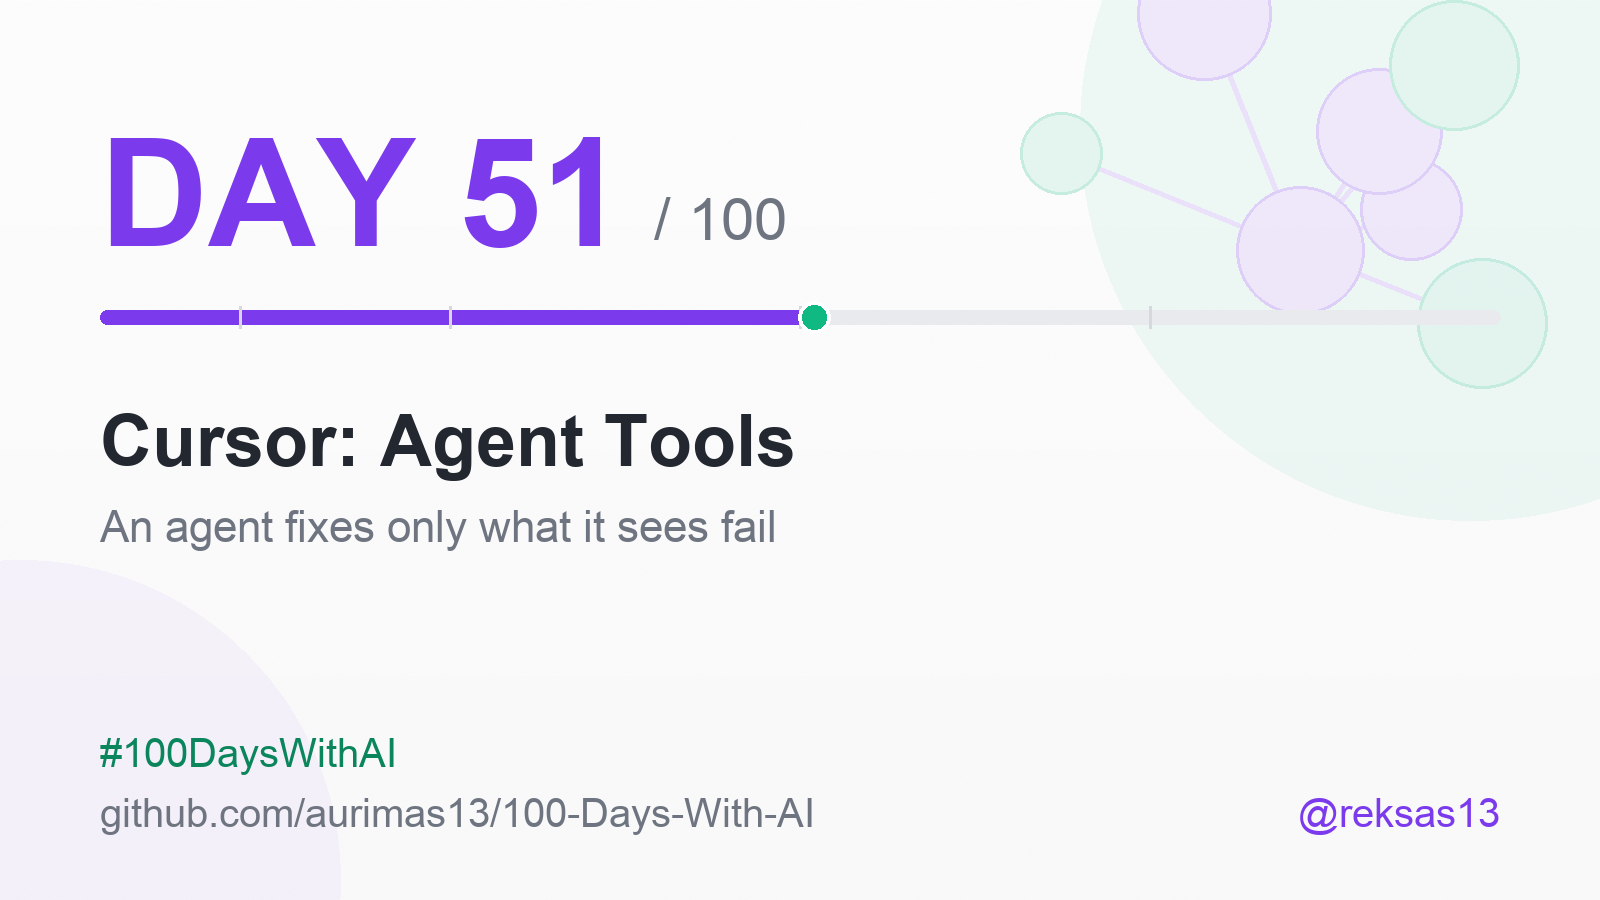
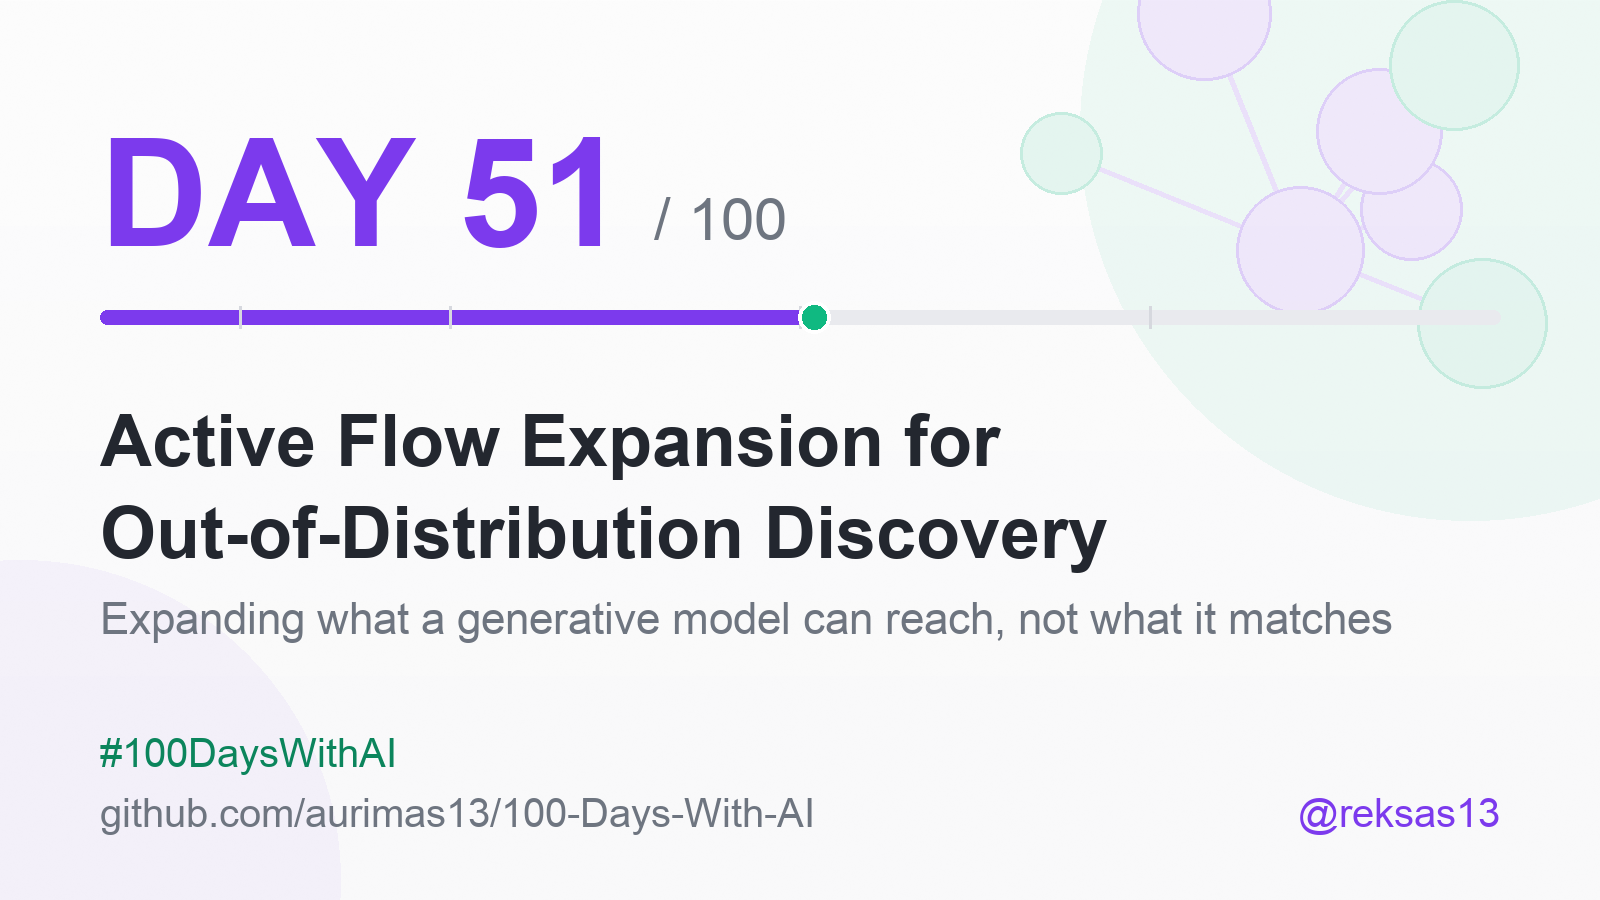
Day 51: Active Flow Expansion for Out-of-Distribution Discovery (replaces the fallback entry in e122b90)

Changed region(s): [[0.0625, 0.56, 0.875, 0.7156], [0.0625, 0.4356, 0.625, 0.5289]]

diff --git a/README.md b/README.md
@@ -146,7 +146,7 @@ for the shape of the progress table.
 | 48 | 2026-08-28 | "AI Systems Out-Persuade Expert Humans" - Kobi Hackenburg et al. | Advanced | Four preregistered experiments covering 18,978 conversations with 6,923 people, pitting frontier AI against five classes of human persuader - random laypeople, tournament-selected laypeople, professional canvassers paid £140 an hour, 56 elite competitive debaters including four world champions and eleven continental champions, and those same debaters after coaching against the AI that had beaten them - and finding AI ahead of every class, by 8.2 points over random laypeople and 4.6 over elite debaters, with coaching adding a statistically insignificant 1.0 point despite the debaters writing 19% more words and making 54% more fact-checkable claims; the decisive result is the constraint arm, where capping the AI to human message length and human reply speed collapsed its advantage over the strongest human group to 0.0 points, identifying information throughput rather than rhetorical skill as the source of the edge, and a fourth study found the advantage carried into real-money charitable giving | [arxiv.org](https://arxiv.org/abs/2606.16475) |
 | 49 | 2026-08-29 | "Training AI Scientists to Replicate Research" - Damon Falck et al. (Inherent Laboratories) | Advanced | A training setup for agents that reproduce published results, built on Replica, an automatically generated space of 310 figure-replication tasks drawn from 100 machine learning and AI-for-science papers spanning 1990 to 2026, where each task hands the agent a paper with one results figure irreversibly redacted, 60 minutes and a one-seventh MIG slice of an H200 GPU, and asks for the missing plot; because replication has no verifiable reward, the authors auto-generate a per-task rubric with the original figure hidden from the rubric writer so it grades the paper's claim rather than the plot's cosmetics, and use a coding agent with workspace access as the judge so it can re-run the code it is scoring; the resulting agent, Faraday, is Qwen3.6-27B post-trained with a turn-level credit variant of GRPO and using a frontier coding agent as a tool, and it wins on 73% of in-distribution tasks and 60% of held-out ones, with the sharpest comparison being that the same base model in the same harness with the same tool scores 0.554 on the held-out set against Faraday's 0.791 | [arxiv.org](https://arxiv.org/abs/2608.13331) |
 | 50 | 2026-08-30 | "Context Engineering for Agents" - Lance Martin | Advanced | A practitioner's map of context engineering, sorting what is usually a pile of tactics into four moves defined by where the tokens go: write context, saving it outside the window in scratchpads and memories; select context, pulling only the relevant part back in; compress context, keeping just the tokens the task needs; and isolate context, splitting it across sub-agents, sandboxes or state objects so most of it never enters a window at all; the compression half is the concrete one, with Claude Code running an "auto-compact" after 95% of the window is used, Cognition reportedly fine-tuning a model purely to summarise agent-to-agent handoffs, and trimming offered as the cheaper alternative, either by hard-coded heuristics or by a trained pruner such as Provence; the isolation half carries the honest counterweight, that many agents with their own windows beat a single agent on Anthropic's research task while using up to 15 times more tokens than chat; published June 2025 as a blog post, a synthesis of other people's systems rather than an evaluation, with LangGraph and LangChain as its worked examples | [rlancemartin.github.io](https://rlancemartin.github.io/2025/06/23/context_engineering/) |
-| 51 | 2026-08-31 | "Agent Tools" - Cursor Docs | Medium | The reference page for what Cursor's agent can actually do, and more useful for what the list implies than for the list itself: the agent is described as three parts, "Instructions", "Tools" and a "Model", and the tools are file and folder search, file reading with image formats passed to a vision model, edits that it will "Suggest edits to files and apply them automatically", web search, rule retrieval, terminal commands where it will "Execute terminal commands and monitor output", browser control to "take screenshots, test applications, and verify visual changes", image generation, and the ability to ask clarifying questions mid-task; there is no error-handling section anywhere on the page, and that absence is the finding, because the recovery loop is not a feature but a property that falls out of three ordinary ones - running a command and watching what it prints, the flat promise that "There is no limit on the number of tool calls Agent can make during a task", and automatic checkpoints taken "before making significant changes, capturing the state of all modified files" and "stored locally and separate from Git", which makes a wrong turn cheap to undo; the practical consequence is that an agent can only close the loop over failures its own tools can observe, which is why Replit's FAQ can say its agent "often detects" a crash and fixes it in real time and in the same breath tell the human to read the deployment log first and to report a bug as "When input is X, I expected Y but got Z" | [cursor.com](https://cursor.com/docs/agent/tools) |
+| 51 | 2026-08-31 | "Active Flow Expansion for Out-of-Distribution Discovery: from Theory to Molecules" - Riccardo De Santi et al. | Advanced | A method for pushing a pre-trained generative model past the data it was fitted to, resting on a reframing: judge a flow model not by how well it matches the training distribution but by its generable set, formally the region where the terminal density clears a threshold, which is the part of the design space it can actually reach under a finite sampling budget; the central observation is that this set is a tiny fraction of the valid design space, so discovery is a coverage problem rather than a fidelity one, and the paper proposes generable set expansion as a learning principle in its own right; ActFlow implements it as continued pre-training with verifier feedback, repeatedly sampling where a learned uncertainty estimate is highest while a KL term keeps proposals near the current model, querying a black-box validity checker, and fine-tuning on what returns, with an optional negative gradient on rejections, and it explores inside the velocity network's own representation at an intermediate noise level rather than in data space; the theory contributes what the authors call first-of-their-kind statistical learning guarantees for out-of-distribution flow modelling, framed as a local-to-global reachability process; the empirical claim is coverage rather than quality, with valid clusters rising from 35.89 to 144.30 on GEOM-Drugs and from 44.33 to 358.33 on therapeutic peptides, while the standard filtered self-training baseline raises validity and leaves coverage flat, moving 1.16% to 1.1% in the two-dimensional illustration; ETH Zurich, Penn, Caltech and FutureHouse, June 2026, with the authors noting that no real-world discovery has yet been demonstrated | [arxiv.org](https://arxiv.org/abs/2606.08802) |
 
 ---
 
@@ -1382,23 +1382,22 @@ source that argues the opposite.
 
 <sub>🤝 <b>AI collaboration:</b> researched, drafted and illustrated with Claude Code; reviewed, edited and approved by me before publishing - see <a href="#-ai-collaboration">AI Collaboration</a>.</sub>
 
-### Day 51 - "Agent Tools" (Cursor Docs)
+### Day 51 - "Active Flow Expansion for Out-of-Distribution Discovery" (Riccardo De Santi et al.)
 
 <img src="assets/cards/day-051.png" width="420" alt="Day 51 card">
 
-- **There is no error-handling section on the page, and that is the finding.** I went to this page looking for how a coding agent recovers from a failed command, a red test or a broken edit, and there is no such heading. No retry policy, no backoff, no description of what the agent does when a build fails. For a page that exists to enumerate capabilities, the omission is not sloppiness. The recovery loop is not one of the tools, it is what you get when three of them are put in the same room.
-- **The three ordinary tools that assemble into a loop.** First, the terminal entry does not say "run commands", it says the agent will "Execute terminal commands and monitor output" - the monitoring is half the sentence and all of the point. Second, the page states flatly that "There is no limit on the number of tool calls Agent can make during a task", so nothing structural stops it from running, reading the failure and running again. Third, checkpoints: the system "automatically creates them before making significant changes, capturing the state of all modified files", and they are "stored locally and separate from Git". Observe, iterate without a cap, and roll back cheaply. That is an error loop, described without ever using the word.
-- **An agent can only close the loop over failures its tools can observe.** This is the line I keep coming back to. A stack trace printed by a command the agent itself ran is inside the loop. A visual regression, a wrong number on a dashboard, a function that does exactly what was asked and not what was meant - none of those are, unless something puts them there. Read that way, the browser tool stops looking like a convenience and starts looking like an aperture: "Control a browser to take screenshots, test applications, and verify visual changes" is a way of turning a class of invisible failure into observable output. Vision on `.png`, `.jpg`, `.gif`, `.webp` and `.svg` is the same move for anything already on disk.
-- **Where the agent cannot see, the human is the sensor - and vendors say so openly.** Replit's FAQ makes the split unusually explicit. On one side, the agent's own loop: "If the code it wrote crashes or throws an error, the Agent often detects it and attempts to fix the issue in real time." On the other, the human's job when it does not: read the deployment or console logs first, and hand back a report shaped as "When input is X, I expected Y but got Z". That template is doing real work. It supplies the input, the expectation and the observation - the three things a failing test would have carried automatically. It is a manual reconstruction of a signal the agent could not generate for itself.
-- **The upshot for how I set up a task, which is the practical half.** If the agent fixes what it can see fail, then the highest-leverage thing I control is not the prompt, it is how much of the failure surface is wired into something that prints. A test command, a type check, a linter, a smoke script that exits non-zero: each one converts a silent defect into terminal output the loop already knows how to consume. The corollary is uncomfortable and worth saying plainly - on a task with no executable check, an agent is not iterating towards correctness at all, it is producing plausible text and I am the only sensor in the circuit.
-- **What this entry does not accept without saying so.** Three limits. First, this is vendor documentation, not an evaluation: it describes intended behaviour and reports no measurement, and "there is no limit on the number of tool calls" is a product statement about a fast-moving tool, not a guarantee I have tested. Second, Replit's "often detects" is doing quiet work in that sentence, and a vendor FAQ is the least adversarial possible account of its own failure rate. Third, the supporting error-API link I had queued for today, Windsurf's, now redirects to Devin's documentation and turns out to describe analytics query errors rather than anything an agent feeds back to itself, so it is cited here only as the reason it went unused.
+- **The generable set is the reframing, and it asks a better question than "how well does it fit?".** Definition 1 is small and does a lot of work: the tau-level generable set is the set of designs the model's terminal density assigns at least tau probability. It is deliberately not the support. As the paper notes, as tau approaches zero the generable set approaches the support, but the support includes regions of infinitesimal probability that will never be sampled in any real budget; the tau-level set is instead "the region likely to be sampled under a finite budget". That is the distinction the whole paper turns on. A model is described by what it can actually reach, not by what it could reach given infinite draws.
+- **The limitation is then stated as a volume inequality, which is what makes it uncomfortable.** The pre-trained generable set is contained in the valid design space, and its volume is very much smaller. The valid space is defined by a black-box verifier, every design the checker accepts. So a model that fits its data perfectly is still, by construction, incapable of producing most valid molecules: the abstract puts it as sampling "valid new-to-nature designs, assigned negligible probability under, and thus inaccessible to, standard models fitted to the observed data". Better fit does not touch this. Fidelity and coverage are separate axes, and pre-training only optimises the first.
+- **ActFlow chases uncertainty, not validity, and that inversion is the method.** Each round it fits an uncertainty estimate for the verifier from the labelled designs it has queried so far, then samples to maximise that uncertainty minus a KL penalty against the current model, queries the black-box verifier on what it drew, and fine-tunes the flow on the results with an optional negative gradient on the rejections. The KL weight is the exploration dial: pushed high it degenerates to ordinary sampling, pushed to zero it chases uncertainty into regions where the model is worthless. The detail I liked most is where the search happens. Exploration runs inside the velocity network's own learned representation at an intermediate noise level, empirically around 0.8 to 0.9, because that geometry is friendlier to global exploration than either the clean-data end or the pure-noise end. The model's own half-noised internal space is the map it explores by.
+- **The result that changed my mind: filtering makes a model more correct and less adventurous.** In the two-dimensional illustration ActFlow "increases both coverage, from 1.16% to 94.27%, and validity, from 76.00% to" 95.90%. The baseline that matters is Rec-F, which is the standard recipe almost everyone uses, namely continued training on your own verifier-filtered samples. It "increases validity while even decreasing coverage (1.16% to 1.1%)". It got better at being right about the ground it already stood on, and lost ground. Filtering selects for what the model can already do, which is exactly the wrong selection pressure if the goal is reach.
+- **The same shape recurs across four molecular domains, at scale.** On QM9, 88.40 valid clusters against 45.40 for Rec-F and 42.80 for Rec-NF, with a Vendi diversity of 306.08. On GEOM-Drugs, clusters rise from 35.89 to 144.30 and Vendi from 255.03 to 303.10. On therapeutic peptides, from 44.33 to 358.33 clusters and 13.45 to 58.87 Vendi, while unfiltered self-training "collapses entirely to 0.0% validity, as a single misplaced token can result in an invalid peptide". On protein sequences, 66.50 to 102.75 clusters, Vendi 12.87 to 42.14, validity 70.81% to 83.74%. The protein column repeats the trade in miniature: Rec-F reaches a higher validity of 88.12% than ActFlow's 83.74%, and "collapses in coverage and diversity" doing it. Whenever validity is the only thing measured, the filtering baseline looks like the winner.
+- **What this entry does not accept without saying so.** Four limits, and the last is a reading note. First, "valid" means a computational verifier said yes: chemical rules for molecules, a sequence parser for peptides. Not synthesis, not an assay, not a binding result. A molecule can be valid and entirely useless. Second, the authors are honest about the gap themselves, writing that "future work will need to assess whether this form of exploration yields concrete gains (i.e., discoveries) in specific real-world applications" - no discovery is claimed anywhere. Third, the guarantee is reachability-shaped: it covers what can be reached from the seed region through a bounded number of local certifiable steps, so a valid region genuinely disconnected from everything the pre-trained model knows sits outside the theorem, and "new-to-nature" has to be read within that. Fourth, read two of the numbers carefully. The paper writes of "increasing the pre-trained model coverage by 144.3% and its validity by 56.6%", but Table 1 gives 144.30 as ActFlow's cluster count, up from 35.89, and 56.6% as its absolute validity on that task. Those two are levels, not increases, and quoting them as percentage gains would overstate a result that is already strong.
 
-**Why it matters:** the phrase "error handling" invites you to look for a component, and in an agent there is no component to find. What there is instead is an observation surface. Whether a failure reaches the model is decided upstream of the model entirely, by which tools exist and what they print, and that is an engineering decision made before a single token is generated. It also reframes a complaint I have made myself. When an agent loops uselessly on a problem, the instinct is to blame its reasoning; more often the loop is blind, iterating against output that never contained the failure in the first place. Yesterday's four buckets were about what enters the context window on purpose. This is about what enters it by consequence, and the second kind is the only kind that carries a correction.
+**Why it matters:** the reframing travels a long way past molecules. Any time a generative model is deployed to search rather than to imitate - proposing candidates, generating synthetic training data, writing code nobody has written yet - the question stops being how faithfully it reproduces its training distribution and becomes how much of the valid space it can reach at all. Those two goals are not merely different, they pull against each other, and the 1.16% to 1.1% result is the cleanest demonstration of that I have seen: the standard quality loop measurably shrank the model's reach while improving every number anybody was watching. It also puts a name to something that has bothered me about synthetic-data pipelines. Generate, filter, retrain is a fidelity loop wearing the clothes of an improvement loop. If nothing in it points away from what the model is already confident about, it cannot expand anything, and it will still report progress.
 
-**What I learned/tried:** the correction to my own habit is small and specific. I have been treating the tool list of an agent as a capability question, as in what can it reach, and I now think it is at least as much an observability question, as in what can it notice going wrong. Those give different answers about what to add next. On my own pipelines the thing I will change is the order of setup: before writing the instructions, wire one command that fails loudly and non-zero when the output is wrong, and give the agent that command. I also want to test the uncomfortable half of the claim above rather than assert it. The channel's own daily run is a fair subject - it has a preflight script that exits non-zero on a malformed package, and it would be honest to check how many of the defects that have actually shipped this month were things that script could see, and how many only ever showed up in a human reading the file.
+**What I learned/tried:** the specific correction is to my instinct about self-training. I have treated generate-filter-retrain as the obvious way to improve a generative system, because it is what everyone does and because the metric it moves goes up. This paper says that loop is a validity optimiser, and that expansion needs a signal pointing at what the verifier is uncertain about rather than at what the model is confident about. The practical change I can make is in measurement rather than in method, and it is cheap: on any generate-and-filter loop of mine, track a coverage or diversity number alongside the pass rate, because a pipeline can improve on every metric I currently watch while quietly getting narrower, and I would not currently notice. I also want to sit with the honest limit here rather than skip past it, because it is the one that connects to the chemistry side of my own writing: a verifier that checks valency is not a verifier that checks usefulness, and every impressive coverage number in this paper is coverage of a space defined by a rule-checker. Yesterday's source was about what enters the context window on purpose; this one is about what a model is able to reach at all, and reach turns out to be the thing nobody was measuring.
 
 <sub>🤝 <b>AI collaboration:</b> researched, drafted and illustrated with Claude Code; reviewed, edited and approved by me before publishing - see <a href="#-ai-collaboration">AI Collaboration</a>.</sub>
-
 ---
 
 ## 🤝 AI Collaboration
